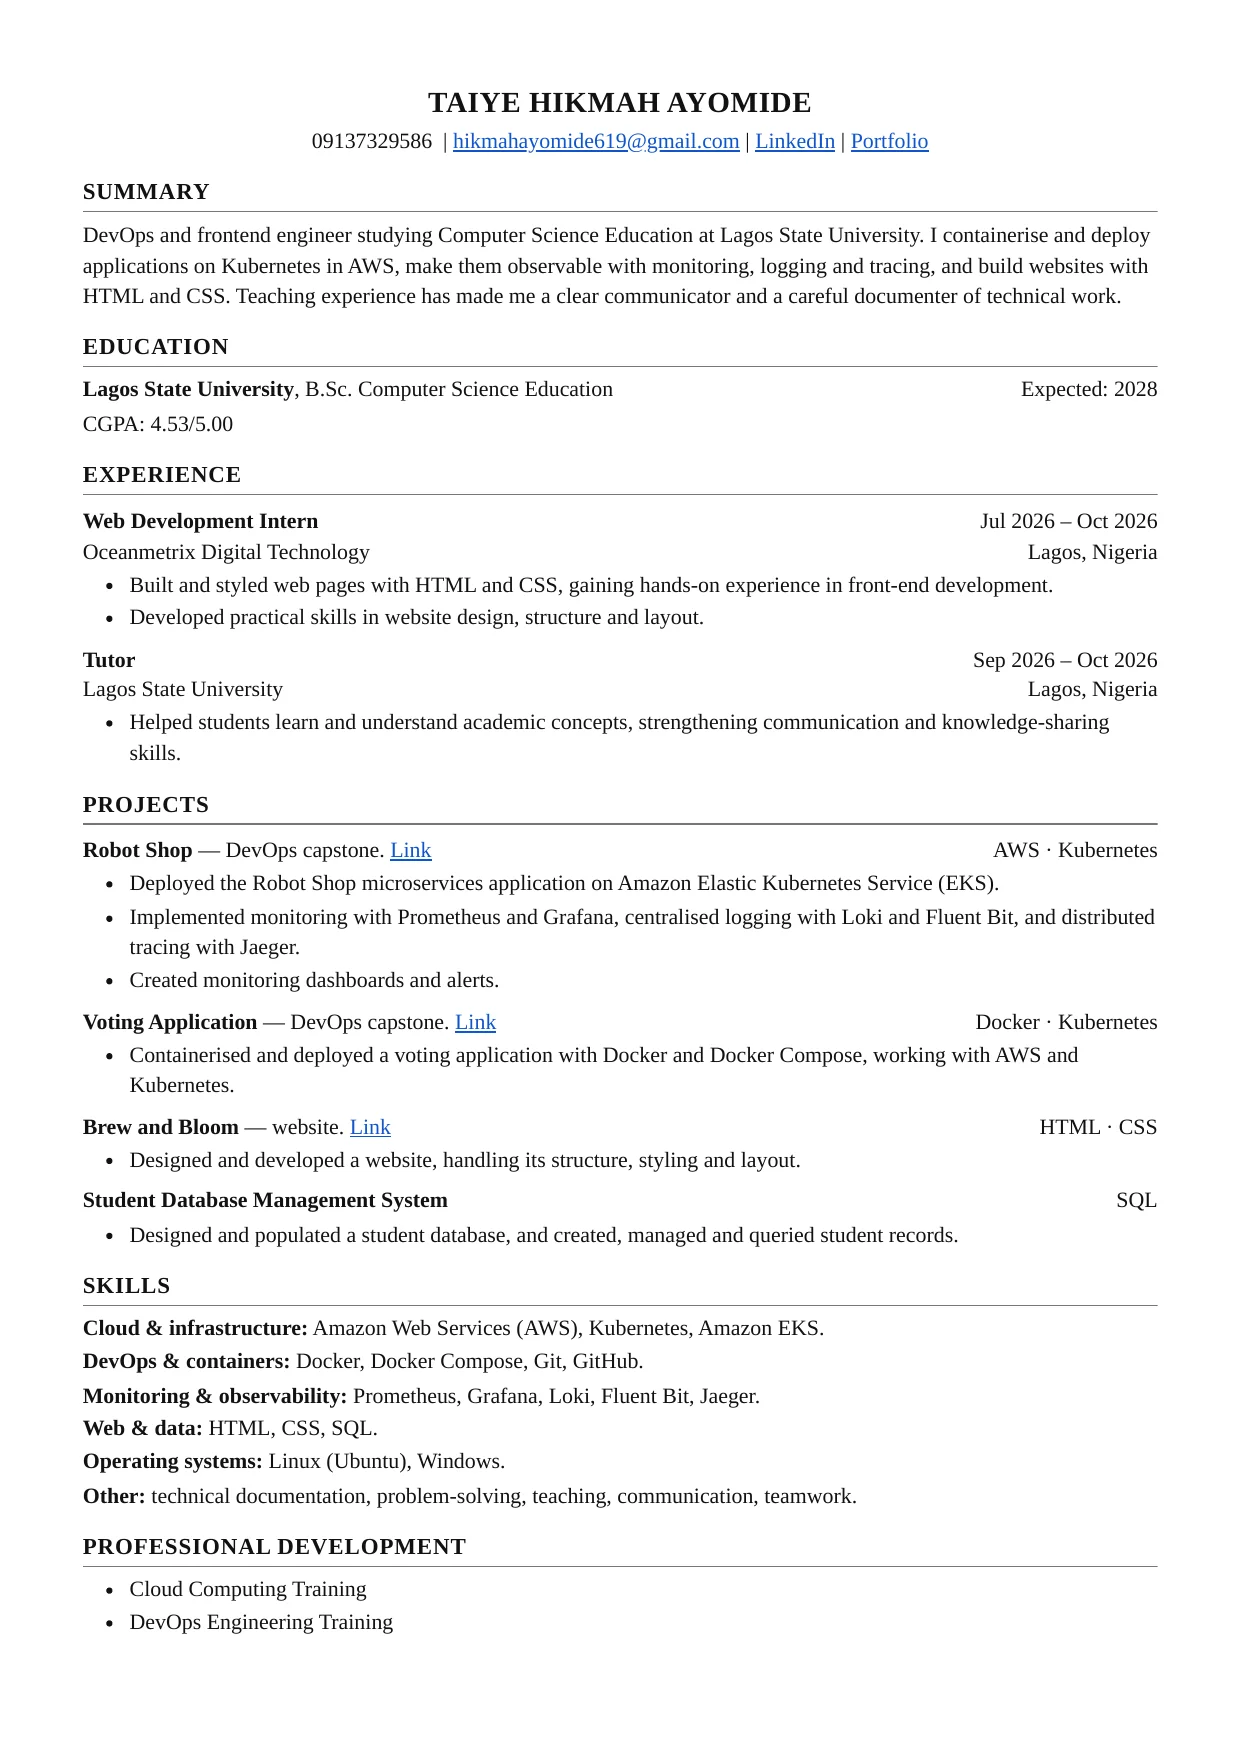
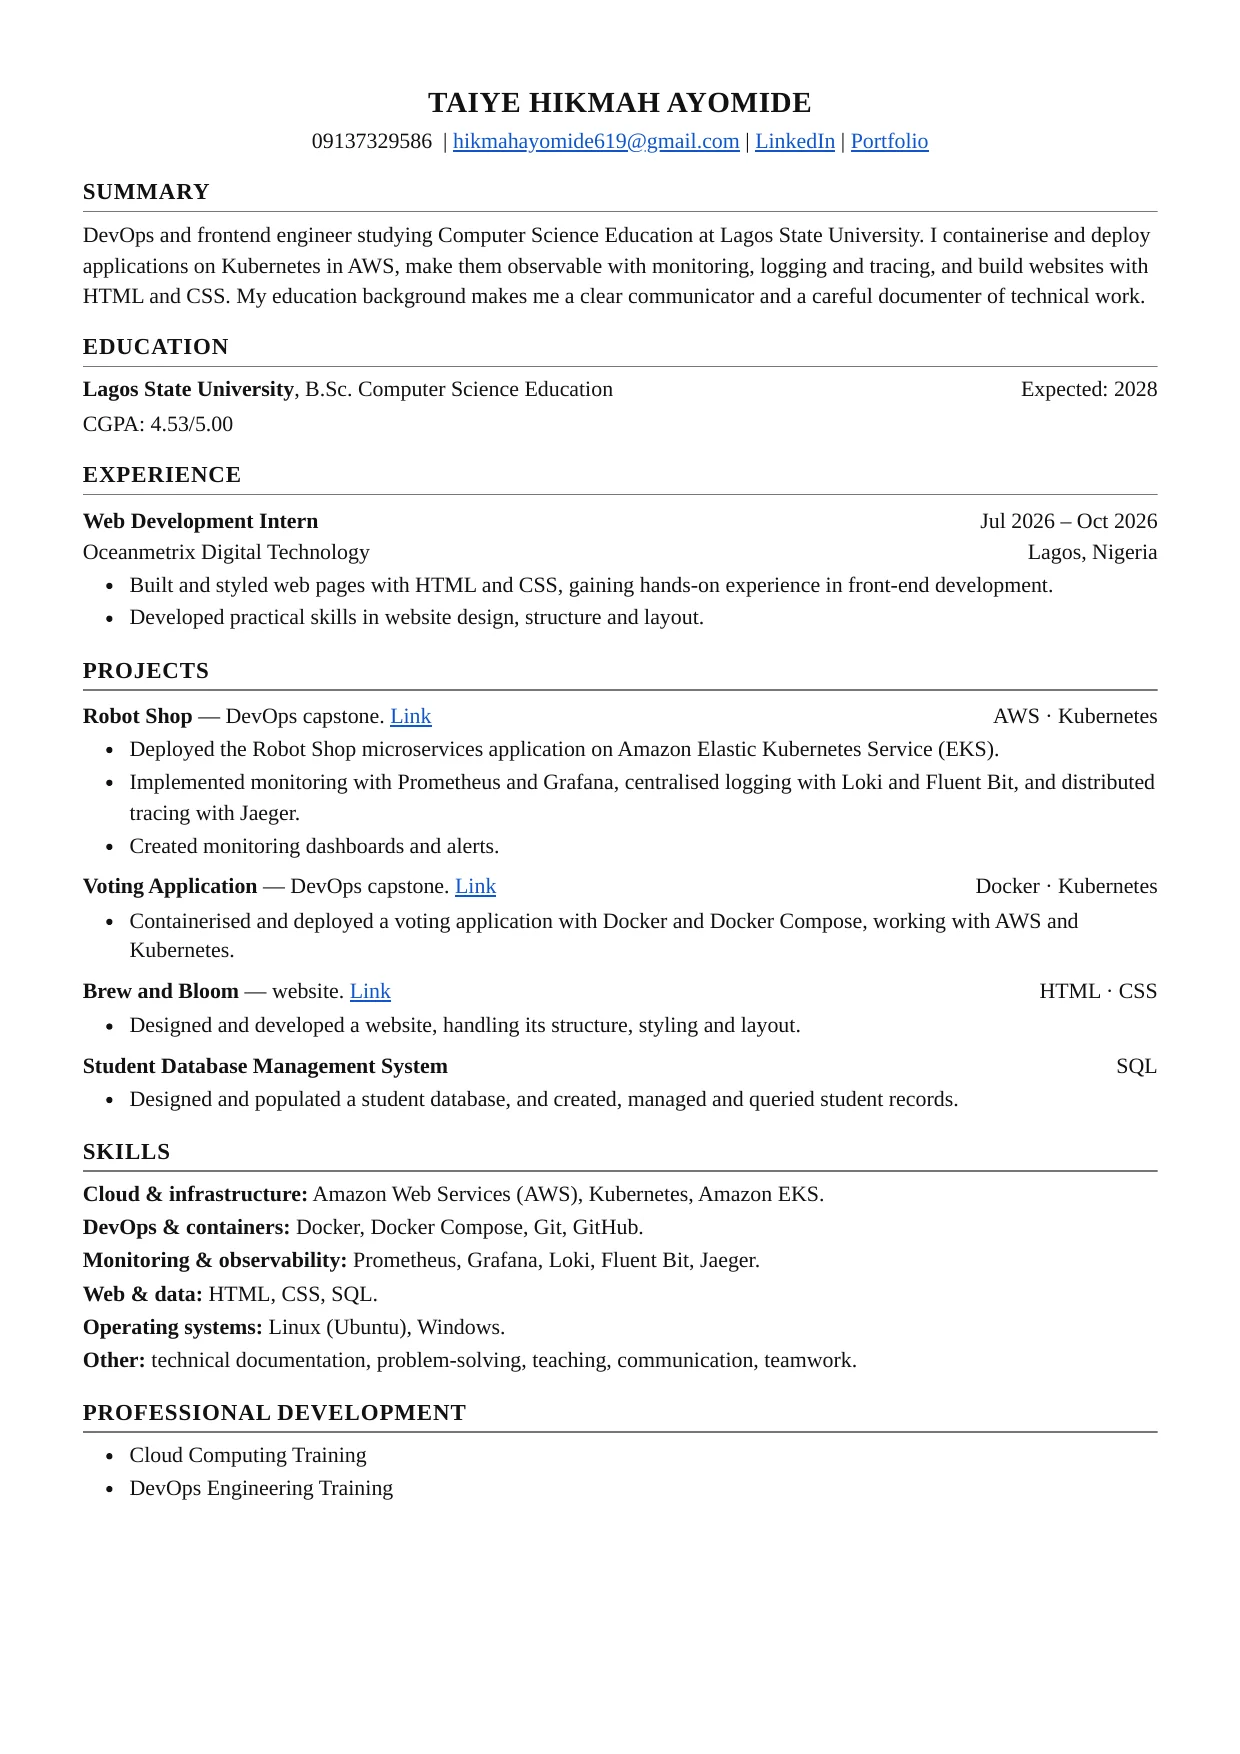
Remove tutor role from CV and cover letter
Claude-Session: https://claude.ai/code/session_01FznZV5MkKYJcrxBuXv8rFi

diff --git a/docs/cv-source.html b/docs/cv-source.html
@@ -24,7 +24,7 @@ a{color:#1155cc}
 <p class="contact">09137329586 &nbsp;| <a href="mailto:hikmahayomide619@gmail.com">hikmahayomide619@gmail.com</a> | <a href="https://www.linkedin.com/in/hikmah-ayomide-b94433367">LinkedIn</a> | <a href="https://taiyehikmah.vercel.app">Portfolio</a></p>
 
 <h2>Summary</h2>
-<p>DevOps and frontend engineer studying Computer Science Education at Lagos State University. I containerise and deploy applications on Kubernetes in AWS, make them observable with monitoring, logging and tracing, and build websites with HTML and CSS. Teaching experience has made me a clear communicator and a careful documenter of technical work.</p>
+<p>DevOps and frontend engineer studying Computer Science Education at Lagos State University. I containerise and deploy applications on Kubernetes in AWS, make them observable with monitoring, logging and tracing, and build websites with HTML and CSS. My education background makes me a clear communicator and a careful documenter of technical work.</p>
 
 <h2>Education</h2>
 <div class="row"><span><b>Lagos State University</b>, B.Sc. Computer Science Education</span><span>Expected: 2028</span></div>
@@ -35,11 +35,6 @@ a{color:#1155cc}
   <div class="row"><span class="t">Web Development Intern</span><span>Jul 2026 – Oct 2026</span></div>
   <div class="row"><span>Oceanmetrix Digital Technology</span><span>Lagos, Nigeria</span></div>
   <ul><li>Built and styled web pages with HTML and CSS, gaining hands-on experience in front-end development.</li><li>Developed practical skills in website design, structure and layout.</li></ul>
-</div>
-<div class="role">
-  <div class="row"><span class="t">Tutor</span><span>Sep 2026 – Oct 2026</span></div>
-  <div class="row"><span>Lagos State University</span><span>Lagos, Nigeria</span></div>
-  <ul><li>Helped students learn and understand academic concepts, strengthening communication and knowledge-sharing skills.</li></ul>
 </div>
 
 <h2>Projects</h2>

diff --git a/docs/cover-letter-source.html b/docs/cover-letter-source.html
@@ -30,14 +30,14 @@ li{margin:2px 0}
 
 <p>Through my DevOps training I deployed the Robot Shop microservices application on Amazon EKS and made it observable from end to end, with Prometheus and Grafana for monitoring, Loki and Fluent Bit for centralised logging, Jaeger for distributed tracing, and dashboards and alerts on top. I also containerised and deployed a voting application with Docker and Docker Compose on AWS and Kubernetes. On the web side, my internship at Oceanmetrix gave me hands-on experience building and styling pages in HTML and CSS, which I have since put into sites such as Brew and Bloom.</p>
 
-<p>Teaching has shaped how I work. Helping students understand difficult concepts taught me to explain clearly and document carefully, skills I bring to every system I build. I would welcome the chance to grow with your team, learn from experienced engineers and contribute reliable, well-documented work.</p>
+<p>My education studies have shaped how I work. Learning how people understand difficult concepts has taught me to explain clearly and document carefully, skills I bring to every system I build. I would welcome the chance to grow with your team, learn from experienced engineers and contribute reliable, well-documented work.</p>
 
 <h3>Here's what I can bring to the role:</h3>
 <ol>
   <li>Hands-on experience deploying containerised applications on Kubernetes in AWS.</li>
   <li>Monitoring, logging and tracing that make systems easy to understand and fix.</li>
   <li>Front-end skills in HTML and CSS for clean, well-structured websites.</li>
-  <li>Clear communication and documentation, shaped by teaching.</li>
+  <li>Clear communication and documentation, shaped by my education studies.</li>
 </ol>
 
 <p>I look forward to discussing how I can contribute to your team. Thank you for considering my application.</p>
